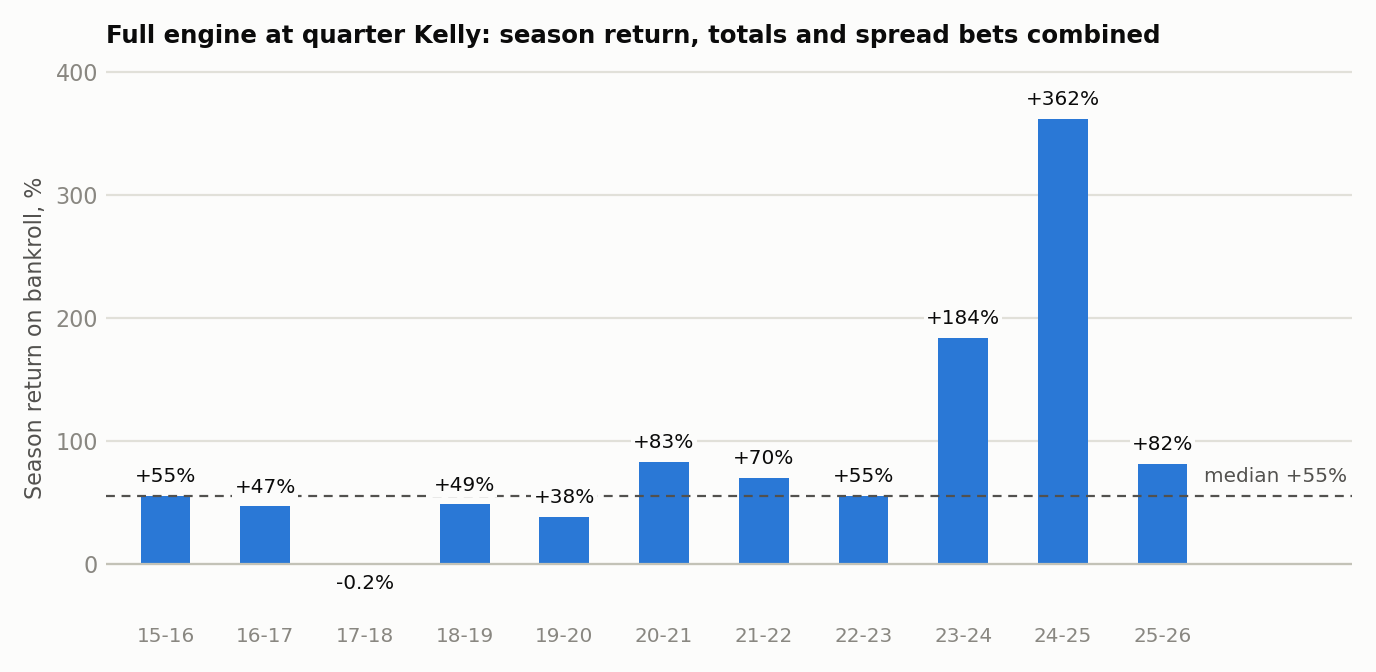
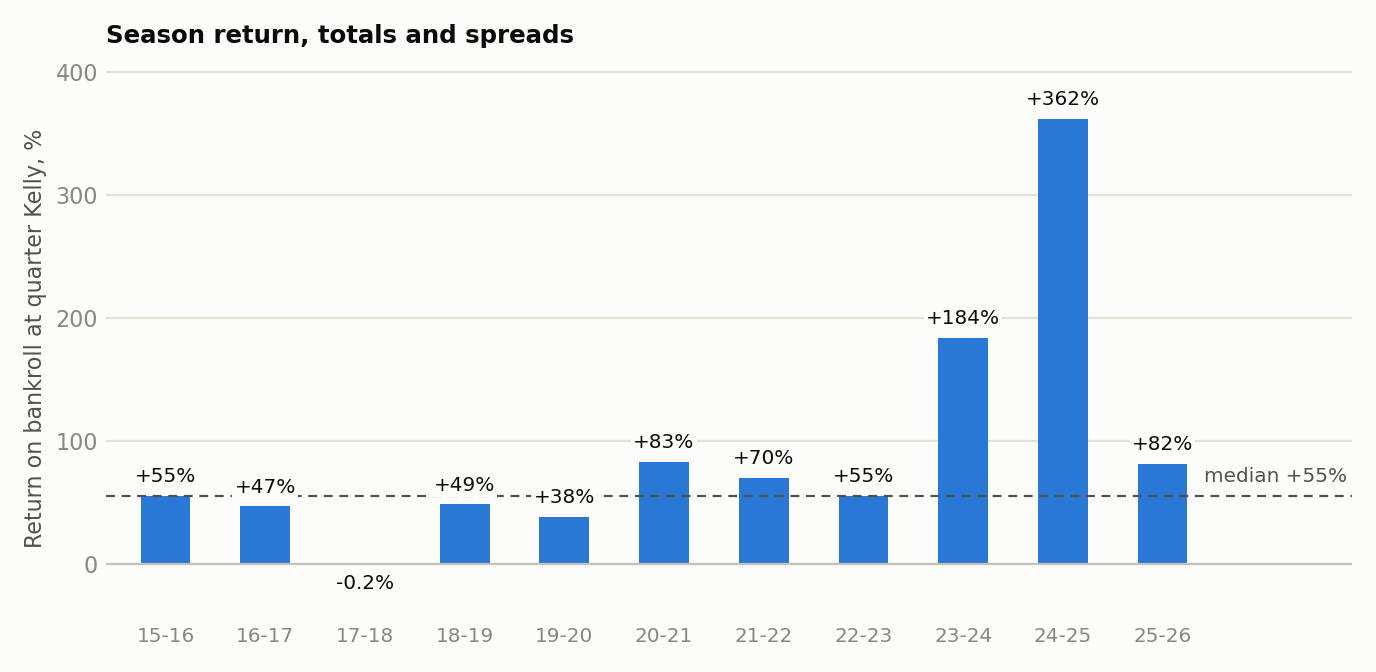
Shorter chart titles; season-return chart back on the front page

Changed region(s): [[0.0625, 0.0312, 0.8438, 0.0625], [0.0, 0.25, 0.0312, 0.8125], [0.0, 0.1875, 0.0312, 0.2188]]

diff --git a/README.md b/README.md
@@ -17,6 +17,8 @@ Every season is scored with weights learned only from the seasons before it, inc
 
 ![return per unit staked by season](charts/engine_per_unit.png)
 
+![season return by season](charts/engine_by_season.png)
+
 ## This season, 2026-27
 
 Paper bets logged as they happened, through November 24 (260 games played), with no real money staked.
